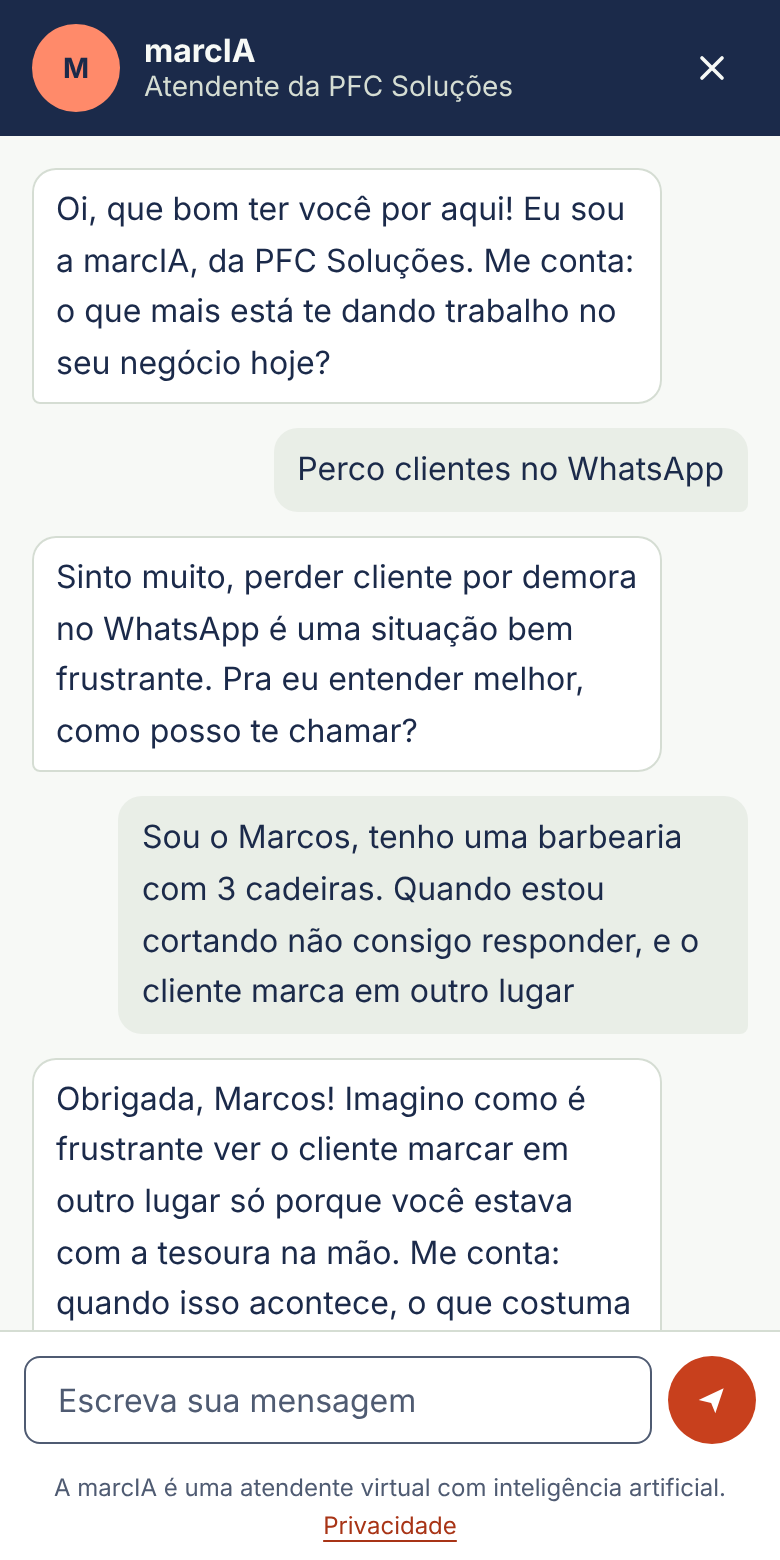
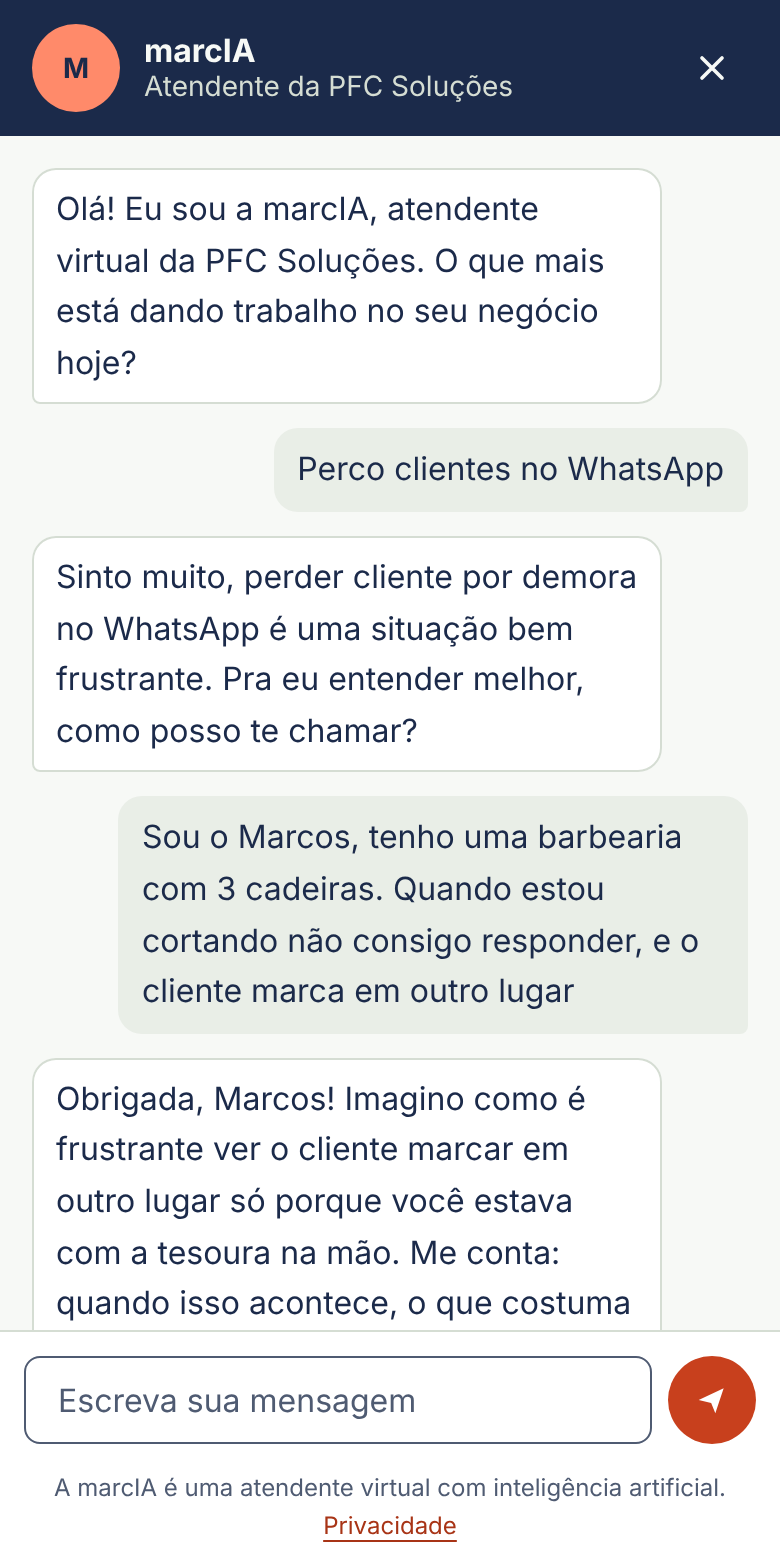
Ajustes da revisão de marca (#53)
- Topo: título de uma cor só, sem dois-pontos; público e soluções no texto;
  sai a faixa que imitava logos (Segments.astro removido); print com a saudação atual
- Uma voz para a mesma ação: "Falar com a atendente virtual" em todo o site
- Cartões de solução com a mesma estrutura; sai a nota de velocidade como argumento
- FAQ de venda sem cláusulas: condições em página própria (/condicoes), com
  componente DocSections compartilhado com a privacidade
- Comparação sem coluna destacada; etapas com rótulo em vez de círculos numerados
- Fundos das seções alternados; rodapé sem data visível, com links para dados da
  empresa e privacidade
- Saudação da marcIA mais sóbria

Claude-Session: https://claude.ai/code/session_01G98QT6YPnmbav7dBjAuo4g

Changed region(s): [[0.0615, 0.1231, 0.8, 0.2462]]

diff --git a/src/data/site.ts b/src/data/site.ts
@@ -16,8 +16,7 @@ export const brand = {
   city: 'São Paulo',
   state: 'SP',
   // Data da última revisão do conteúdo. Atualize ao mudar textos importantes.
-  updatedAt: '2026-11-04',
-  updatedLabel: '4 de novembro de 2026',
+  updatedAt: '2026-11-05',
   // Frase que define a empresa: é o trecho que buscadores e IAs citam sobre a PFC.
   definition:
     'A PFC Soluções em Tecnologia é uma empresa brasileira, fundada por Pietro Cosentino, que cria sistemas sob medida para autônomos e pequenas empresas: agente de IA no WhatsApp, agenda online, controle financeiro e sites. O atendimento é online, para todo o Brasil.',
@@ -47,8 +46,8 @@ export const assistant = {
   role: 'atendente de primeiro contato',
   status: 'Atendente da PFC Soluções',
   greeting:
-    'Oi, que bom ter você por aqui! Eu sou a marcIA, da PFC Soluções. Me conta: o que mais está te dando trabalho no seu negócio hoje?',
-  launcher: 'Fale com a marcIA',
+    'Olá! Eu sou a marcIA, atendente virtual da PFC Soluções. O que mais está dando trabalho no seu negócio hoje?',
+  launcher: 'Falar com a atendente virtual',
 };
 
 // Links com "/" na frente funcionam em qualquer página do site.
@@ -70,6 +69,7 @@ export const footer = {
         { href: '/sobre', label: 'Quem somos' },
         { href: '/#como-funciona', label: 'Como funciona' },
         { href: '/#duvidas', label: 'Perguntas frequentes' },
+        { href: '/condicoes', label: 'Condições do site' },
       ],
     },
     {
@@ -88,20 +88,13 @@ export const footer = {
 // (o que oferecemos, como melhora a vida dele, o que fazer agora).
 
 export const hero = {
-  title: 'Sistemas sob medida para pequenos negócios:',
-  highlight: 'atendimento, agenda e finanças',
-  lead: 'Cada sistema é feito de acordo com a necessidade do seu negócio, nada genérico. Você usa tudo pelo celular.',
+  title: 'Sistemas sob medida para pequenos negócios',
+  lead: 'Atendimento no WhatsApp, agenda e finanças para barbearias, salões, clínicas de estética, personal trainers e prestadores de serviço. Cada sistema parte da rotina do seu negócio, não de um modelo pronto, e você usa tudo pelo celular.',
   primaryCta: 'Falar com a atendente virtual',
   secondaryCta: { href: '#solucoes', label: 'Ver exemplos' },
   // Print real da marcIA (conversa de teste no site em produção).
-  shotCaption: 'A marcIA, atendente com IA deste site, numa conversa de teste.',
-  note: 'A marcIA é a nossa atendente com inteligência artificial. Responde na hora, sem compromisso.',
-};
-
-// Tipos de negócio atendidos: faixa logo abaixo do topo.
-export const segments = {
-  label: 'Para',
-  items: ['barbearias', 'salões de beleza', 'clínicas de estética', 'personal trainers', 'prestadores de serviço'],
+  shotCaption: 'Conversa de teste com a marcIA, o agente de IA que a PFC criou para atender neste site.',
+  note: 'A marcIA é a nossa atendente com inteligência artificial e responde na hora.',
 };
 
 type WarningSign = { stat: string; fact: string; source: string; url: string };
@@ -146,7 +139,7 @@ export const solutions = {
   title: 'Exemplos do que já construímos',
   lead: 'Cada projeto parte da necessidade de quem contrata. Estes são exemplos, não pacotes prontos.',
   closing: 'Precisa de outra coisa?',
-  more: 'Conte para a marcIA',
+  more: 'Fale com a atendente virtual',
   items: [
     {
       area: 'Atendimento',
@@ -162,20 +155,20 @@ export const solutions = {
     {
       area: 'Agenda',
       title: 'Agenda online',
-      description: 'O cliente escolhe serviço e horário pelo celular. Só aparecem horários em que o atendimento inteiro cabe.',
-      features: [],
+      description: 'O cliente marca pelo celular, sem precisar te chamar.',
+      features: ['Escolhe o serviço e o horário', 'Só aparecem horários em que o atendimento inteiro cabe'],
     },
     {
       area: 'Finanças',
       title: 'App de finanças',
-      description: 'Entradas, saídas e contas fixas no Android e no iPhone. Importa planilhas do Excel.',
-      features: [],
+      description: 'O que entra e o que sai do negócio, no Android e no iPhone.',
+      features: ['Entradas, saídas e contas fixas', 'Importa planilhas do Excel'],
     },
     {
       area: 'Presença online',
       title: 'Site profissional',
-      description: 'Feito para o celular, com botão direto para o seu WhatsApp. Este site tira mais de 90 de 100 no teste de velocidade do Google.',
-      features: [],
+      description: 'Feito para o celular, com botão direto para o seu WhatsApp.',
+      features: ['Domínio próprio configurado', 'No ar em até 10 dias depois da sua aprovação'],
     },
   ] satisfies Solution[],
 };
@@ -258,18 +251,7 @@ export const faq = {
     {
       question: 'Quanto custa?',
       answer: 'Site profissional a partir de R$ 700, entregue com o seu domínio configurado. A manutenção custa R$ 200 por mês, em assinatura anual, com a hospedagem incluída. Agentes de IA, agendas e outros sistemas dependem do que você precisa, e o valor fechado está na proposta.',
-    },
-    {
-      question: 'O que a manutenção do site cobre?',
-      answer: 'A hospedagem que mantém o site no ar e a correção de qualquer erro. Melhorias, páginas novas e mudanças de conteúdo ou de visual são orçadas à parte. Se você cancelar, o site sai do ar; para levá-lo a outra hospedagem, dá para negociar a compra do código.',
-    },
-    {
-      question: 'O domínio fica no nome de quem?',
-      answer: 'No seu. O endereço do site (por exemplo, seunegocio.com.br) é registrado no CPF ou CNPJ do seu negócio, e a renovação é paga por você direto ao Registro.br. A PFC faz a configuração para o site funcionar nele.',
-    },
-    {
-      question: 'Recebo o código do site?',
-      answer: 'Não. O código é de autoria da PFC e não é entregue junto com o site. Se você quiser comprá-lo, a compra pode ser negociada à parte.',
+      link: { href: '/condicoes', label: 'Ver as condições do site profissional' },
     },
     {
       question: 'Quanto tempo leva?',
@@ -286,10 +268,6 @@ export const faq = {
     {
       question: 'Vocês atendem a minha cidade?',
       answer: 'O atendimento é online, para todo o Brasil.',
-    },
-    {
-      question: 'Quem é a marcIA?',
-      answer: 'Nossa atendente virtual com inteligência artificial, disponível a qualquer hora.',
     },
   ],
 };

diff --git a/src/lib/assistant/knowledge.ts b/src/lib/assistant/knowledge.ts
@@ -18,7 +18,7 @@ export const howWeWork = `
 - Problema primeiro, tecnologia depois. A PFC não vende pacote pronto: entende a rotina do negócio, encontra onde estão as perdas e só então desenha a solução.
 - Etapas: levantamento (conversa online sem compromisso sobre a rotina, com resposta honesta se a tecnologia resolve), análise (perdas priorizadas e proposta com escopo, prazo e investimento), construção (fluxo desenhado sob medida e construído em partes, com telas para o cliente validar) e entrega e acompanhamento (sistema no ar com os dados do negócio, explicação de uso e acompanhamento). Os detalhes de cada etapa estão na seção de etapas abaixo.
 - Proposta: depois do levantamento, o cliente recebe uma proposta clara, sem compromisso de contratar.
-- Preço e prazo: as únicas referências públicas são do site profissional: a partir de R$ 700, entregue com o domínio configurado e no ar em até 10 dias depois que o cliente aprova a versão final; o agente de IA entra no ar a partir de 15 dias depois que o cliente valida o que ele vai fazer (o prazo exato depende do escopo e sai na proposta); manutenção de R$ 200 por mês, em assinatura anual, que cobre a hospedagem e a correção de erros (melhorias, páginas novas e mudanças são orçadas à parte); se o cliente cancelar, o site sai do ar; o código é de autoria da PFC e não é entregue, mas a compra pode ser negociada; o domínio é registrado no CPF ou CNPJ do cliente, que paga a renovação ao Registro.br, e a PFC configura. Todo o resto depende do que o negócio precisa e só é definido na proposta: nunca estime outros valores, faixas, mensalidades, descontos, formas de pagamento ou prazos, nem compare preços com concorrentes.
+- Preço e prazo: as únicas referências públicas são do site profissional: a partir de R$ 700, entregue com o domínio configurado e no ar em até 10 dias depois que o cliente aprova a versão final; o agente de IA entra no ar a partir de 15 dias depois que o cliente valida o que ele vai fazer (o prazo exato depende do escopo e sai na proposta); manutenção de R$ 200 por mês, em assinatura anual, que cobre a hospedagem e a correção de erros (melhorias, páginas novas e mudanças são orçadas à parte); se o cliente cancelar, o site sai do ar; o código é de autoria da PFC e não é entregue, mas a compra pode ser negociada; o domínio é registrado no CPF ou CNPJ do cliente, que paga a renovação ao Registro.br, e a PFC configura. Tudo isso está na página Condições do site profissional, no rodapé. Todo o resto depende do que o negócio precisa e só é definido na proposta: nunca estime outros valores, faixas, mensalidades, descontos, formas de pagamento ou prazos, nem compare preços com concorrentes.
 - As soluções se combinam: atendimento, agenda, cobrança e finanças podem funcionar juntos, sem digitar a mesma informação duas vezes.
 - O cliente não precisa entender de tecnologia: a PFC cuida da parte técnica e entrega com explicação simples de uso.
 - Tudo é pensado para o celular, do dono e dos clientes dele.

diff --git a/src/data/institutional.ts b/src/data/institutional.ts
@@ -125,3 +125,42 @@ export const privacyPage = {
     },
   ],
 };
+
+// Condições comerciais do site profissional (o FAQ de venda só resume e linka para cá).
+export const conditionsPage = {
+  title: 'Condições do site profissional',
+  updatedAt: '5 de novembro de 2026',
+  lead: 'O que está incluído no site, como funciona a manutenção e o que acontece se você cancelar. Agentes de IA, agendas e outros sistemas têm condições próprias, descritas na proposta.',
+  sections: [
+    {
+      title: 'Preço e prazo',
+      paragraphs: ['A partir de R$ 700. O site entra no ar em até 10 dias depois que você aprova a versão final.'],
+    },
+    {
+      title: 'O que está incluído',
+      paragraphs: ['A criação do site, feito para o celular e com botão direto para o seu WhatsApp, e a configuração do seu domínio.'],
+    },
+    {
+      title: 'Manutenção',
+      items: [
+        'R$ 200 por mês, em assinatura anual.',
+        'Inclui a hospedagem que mantém o site no ar e a correção de qualquer erro.',
+        'Melhorias, páginas novas e mudanças de conteúdo ou de visual são orçadas à parte.',
+      ],
+    },
+    {
+      title: 'Domínio',
+      paragraphs: [
+        'O endereço do site (por exemplo, seunegocio.com.br) é registrado no CPF ou CNPJ do seu negócio, e a renovação é paga por você direto ao Registro.br. A PFC faz a configuração para o site funcionar nele.',
+      ],
+    },
+    {
+      title: 'Código do site',
+      paragraphs: ['O código é de autoria da PFC e não é entregue junto com o site. Se você quiser comprá-lo, a compra pode ser negociada à parte.'],
+    },
+    {
+      title: 'Cancelamento',
+      paragraphs: ['Se você cancelar a manutenção, o site sai do ar. O domínio continua seu, e para levar o site a outra hospedagem dá para negociar a compra do código.'],
+    },
+  ],
+};
